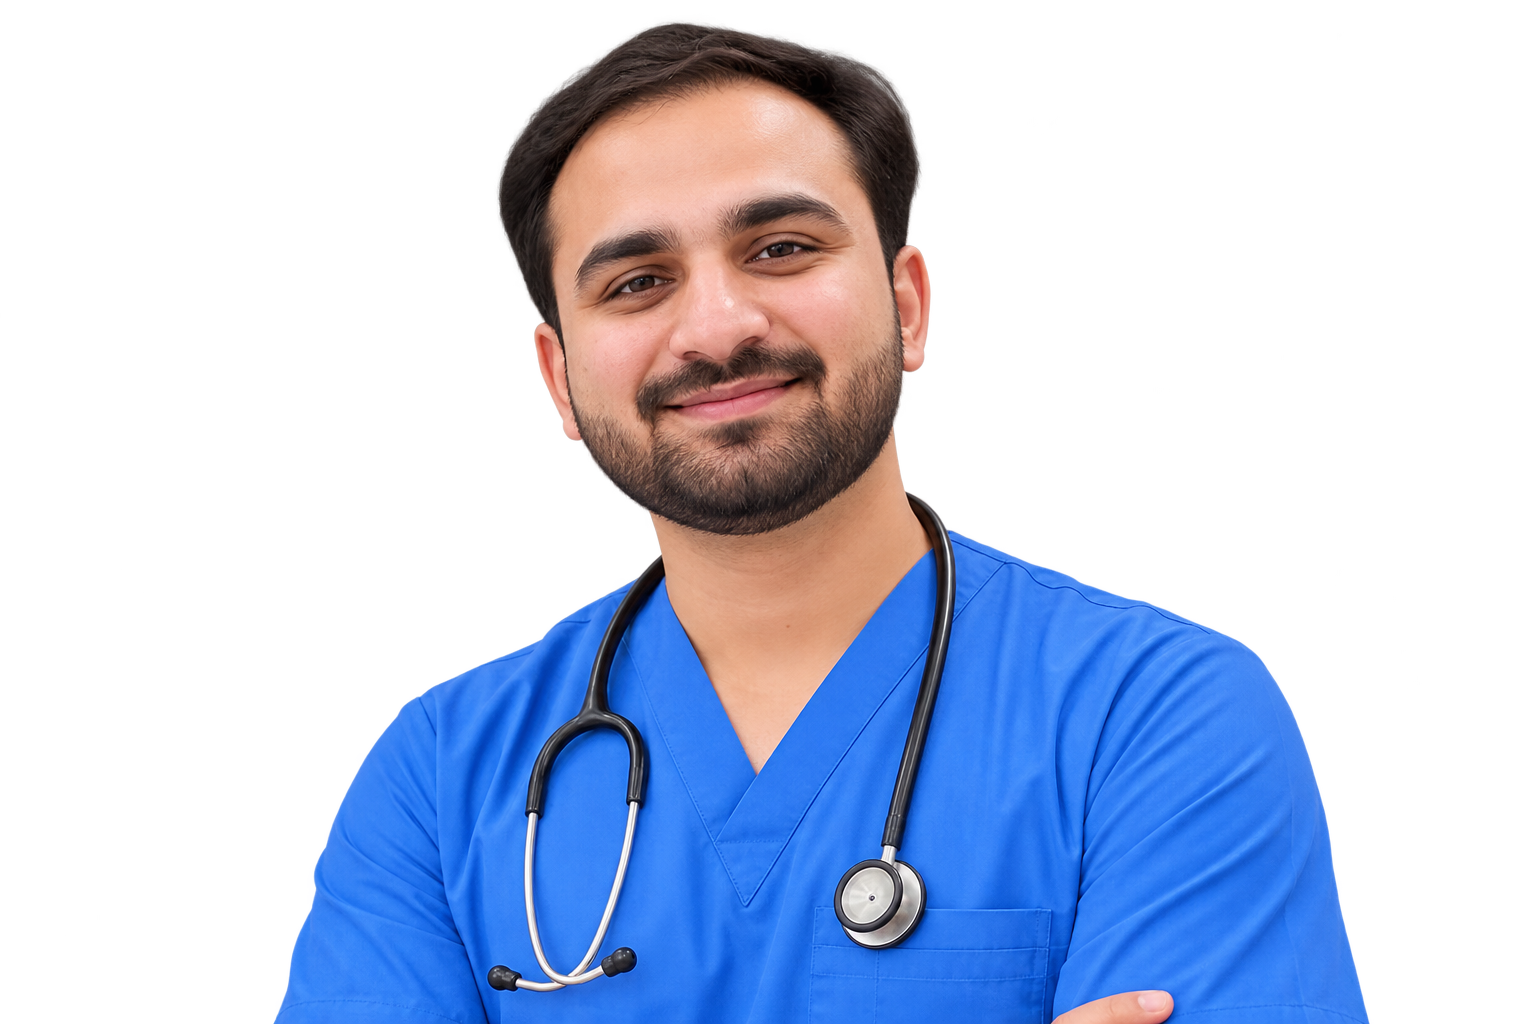
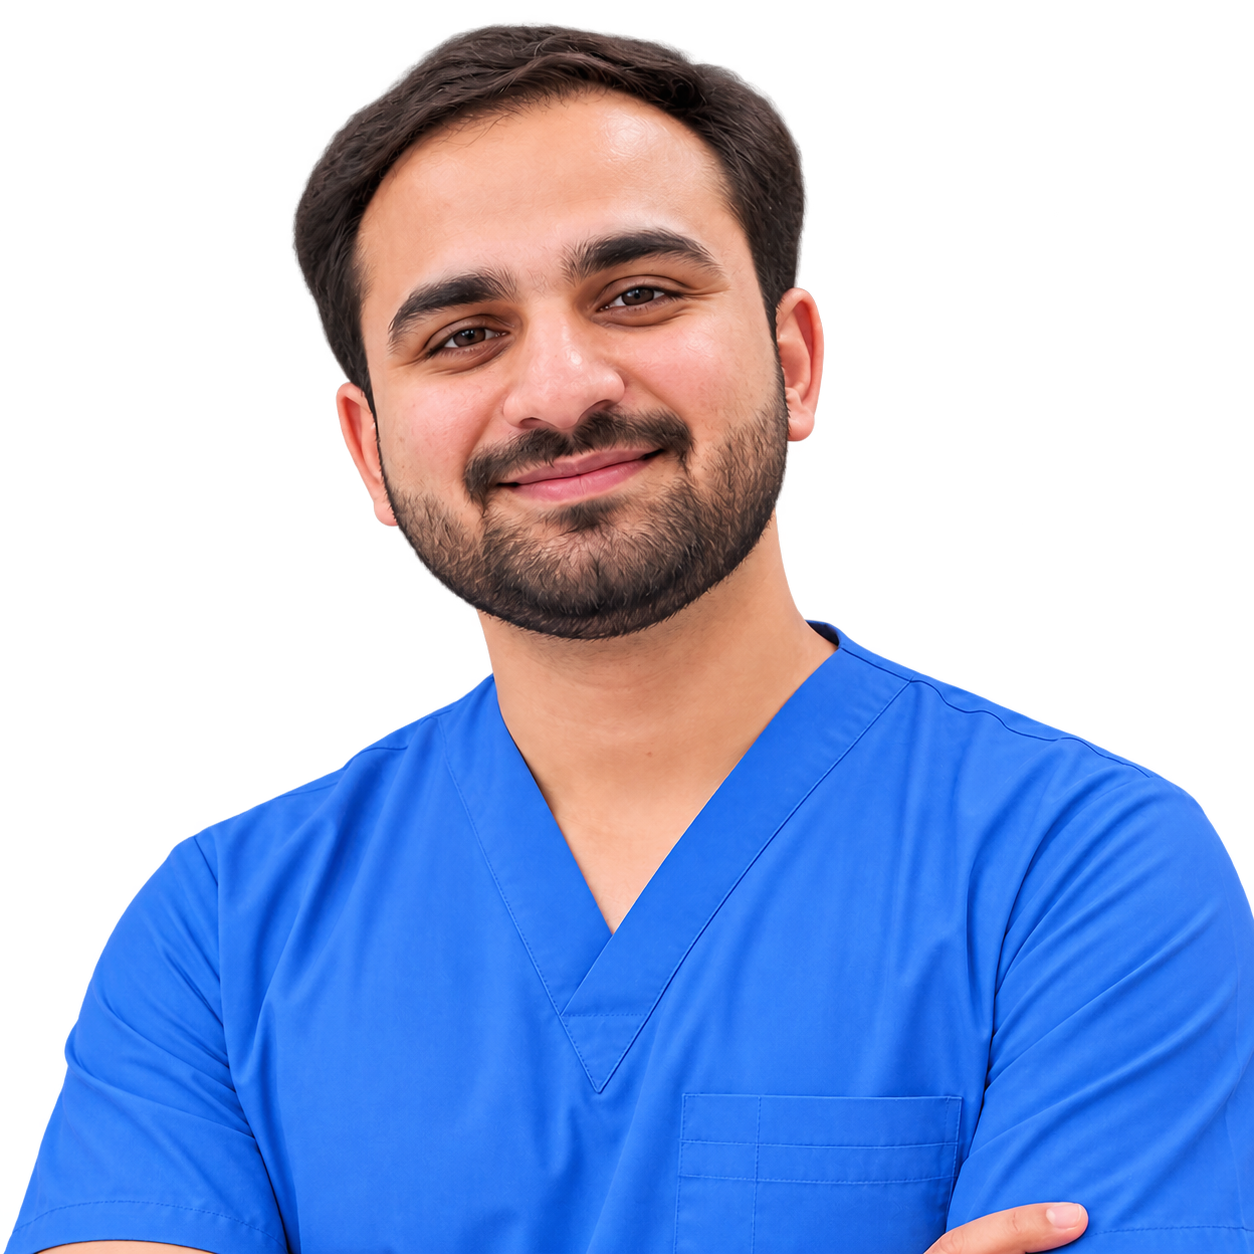
change photo

diff --git a/app/layout.tsx b/app/layout.tsx
@@ -1,4 +1,4 @@
 import type { Metadata } from "next";
 import "./globals.css";
-export const metadata: Metadata = { title: "SmileLab — Restore Your True Smile", description: "Premium, precise and personal dental care." };
+export const metadata: Metadata = { title: "Dr Sher Ahmed — Restore Your True Smile", description: "Premium, precise and personal dental care." };
 export default function RootLayout({ children }: Readonly<{ children: React.ReactNode }>) { return <html lang="en"><body>{children}</body></html>; }
